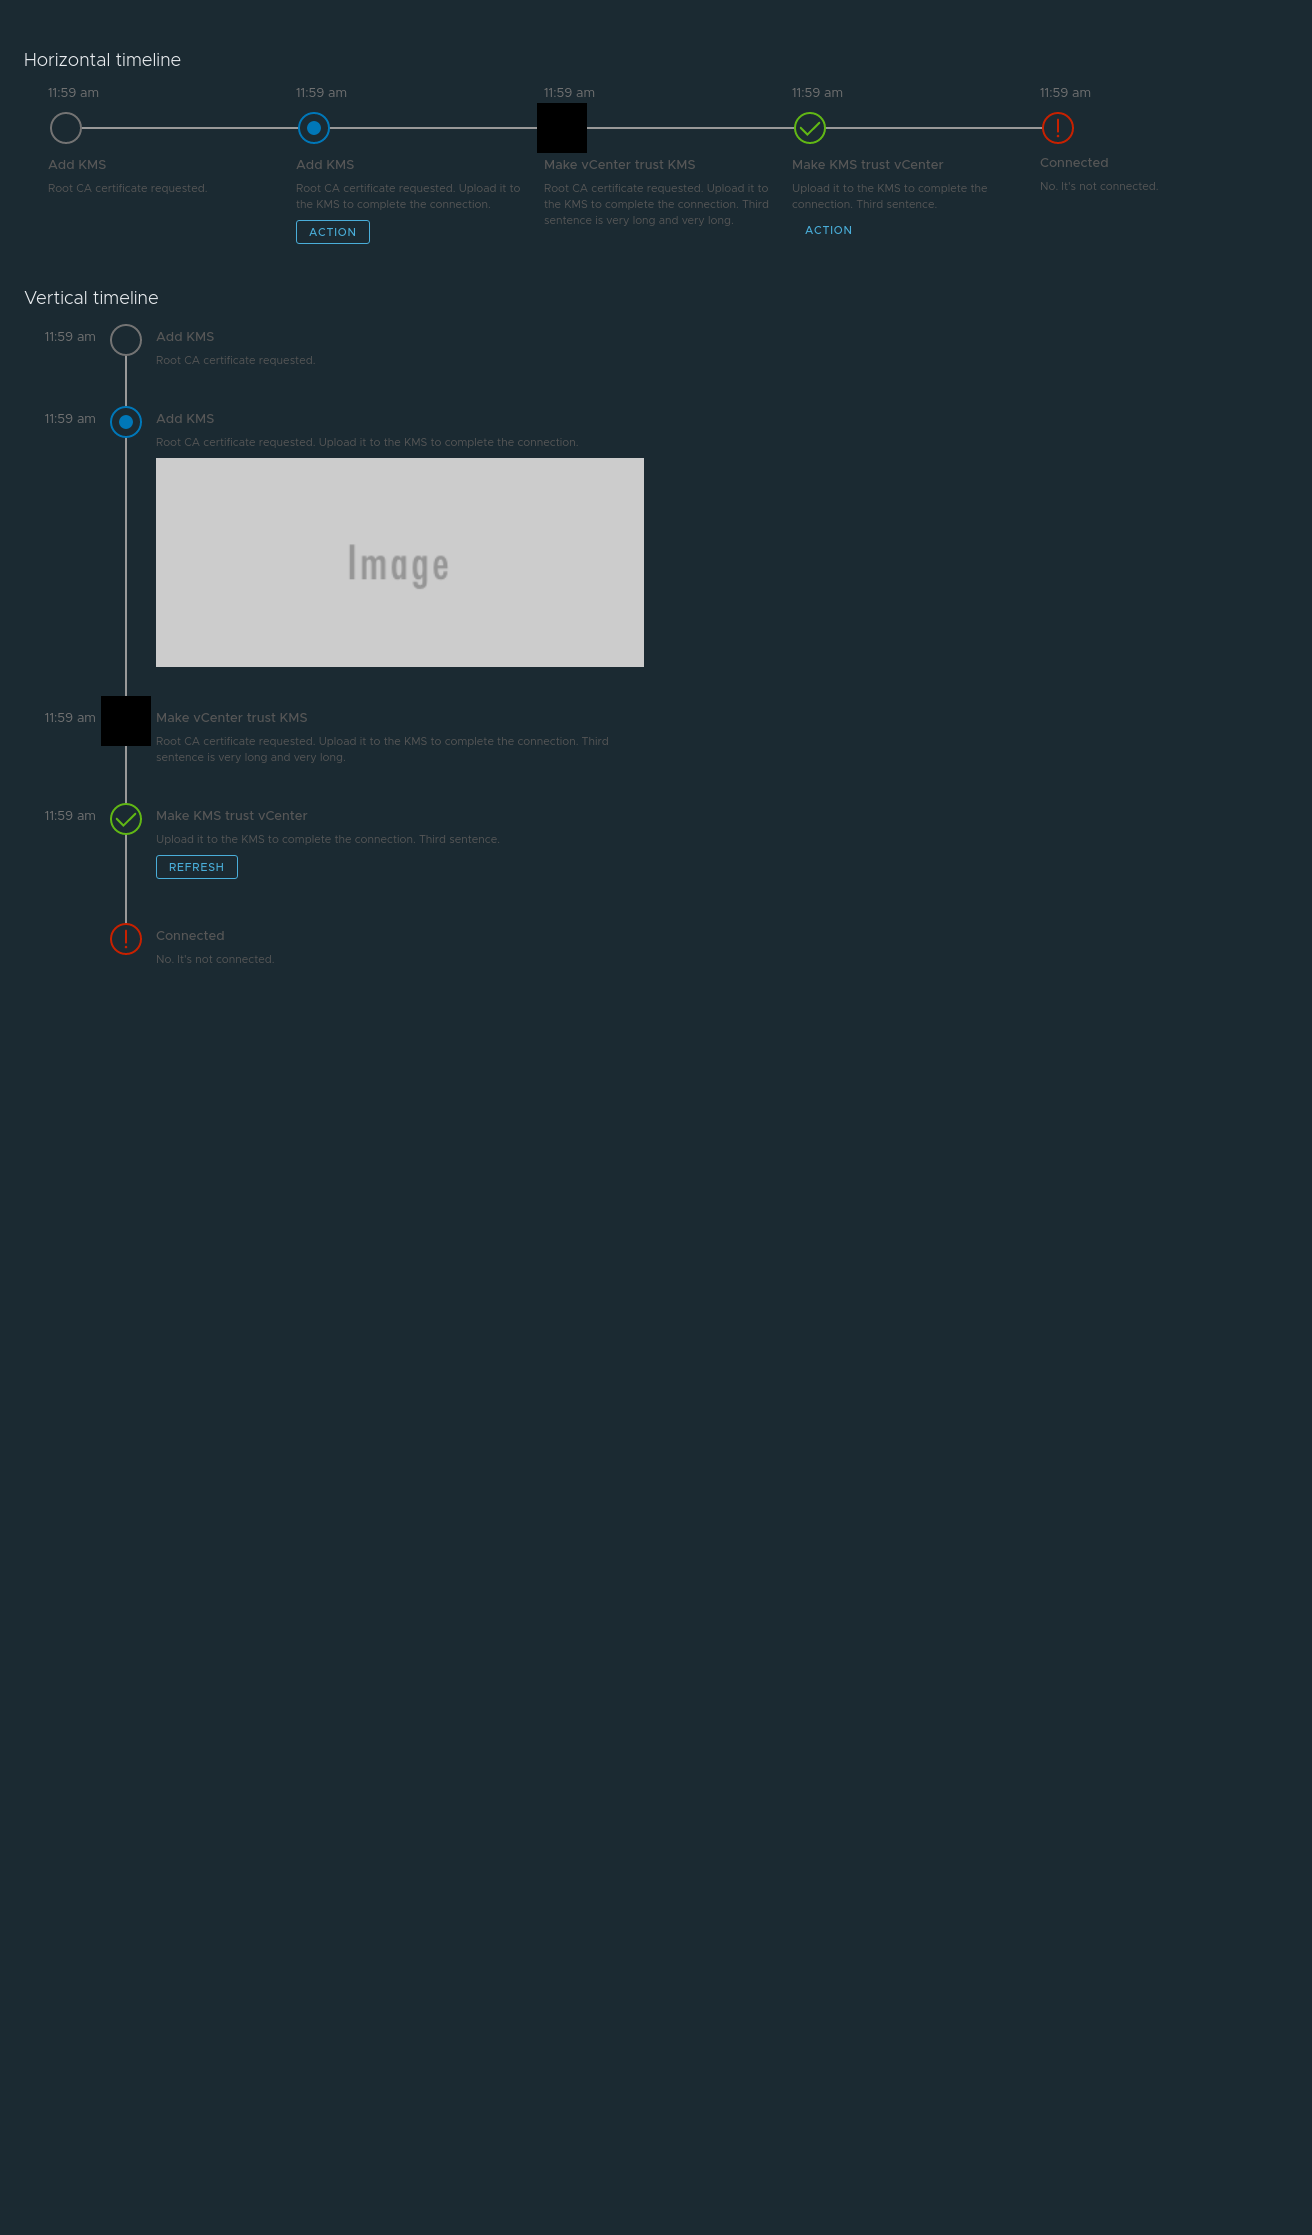
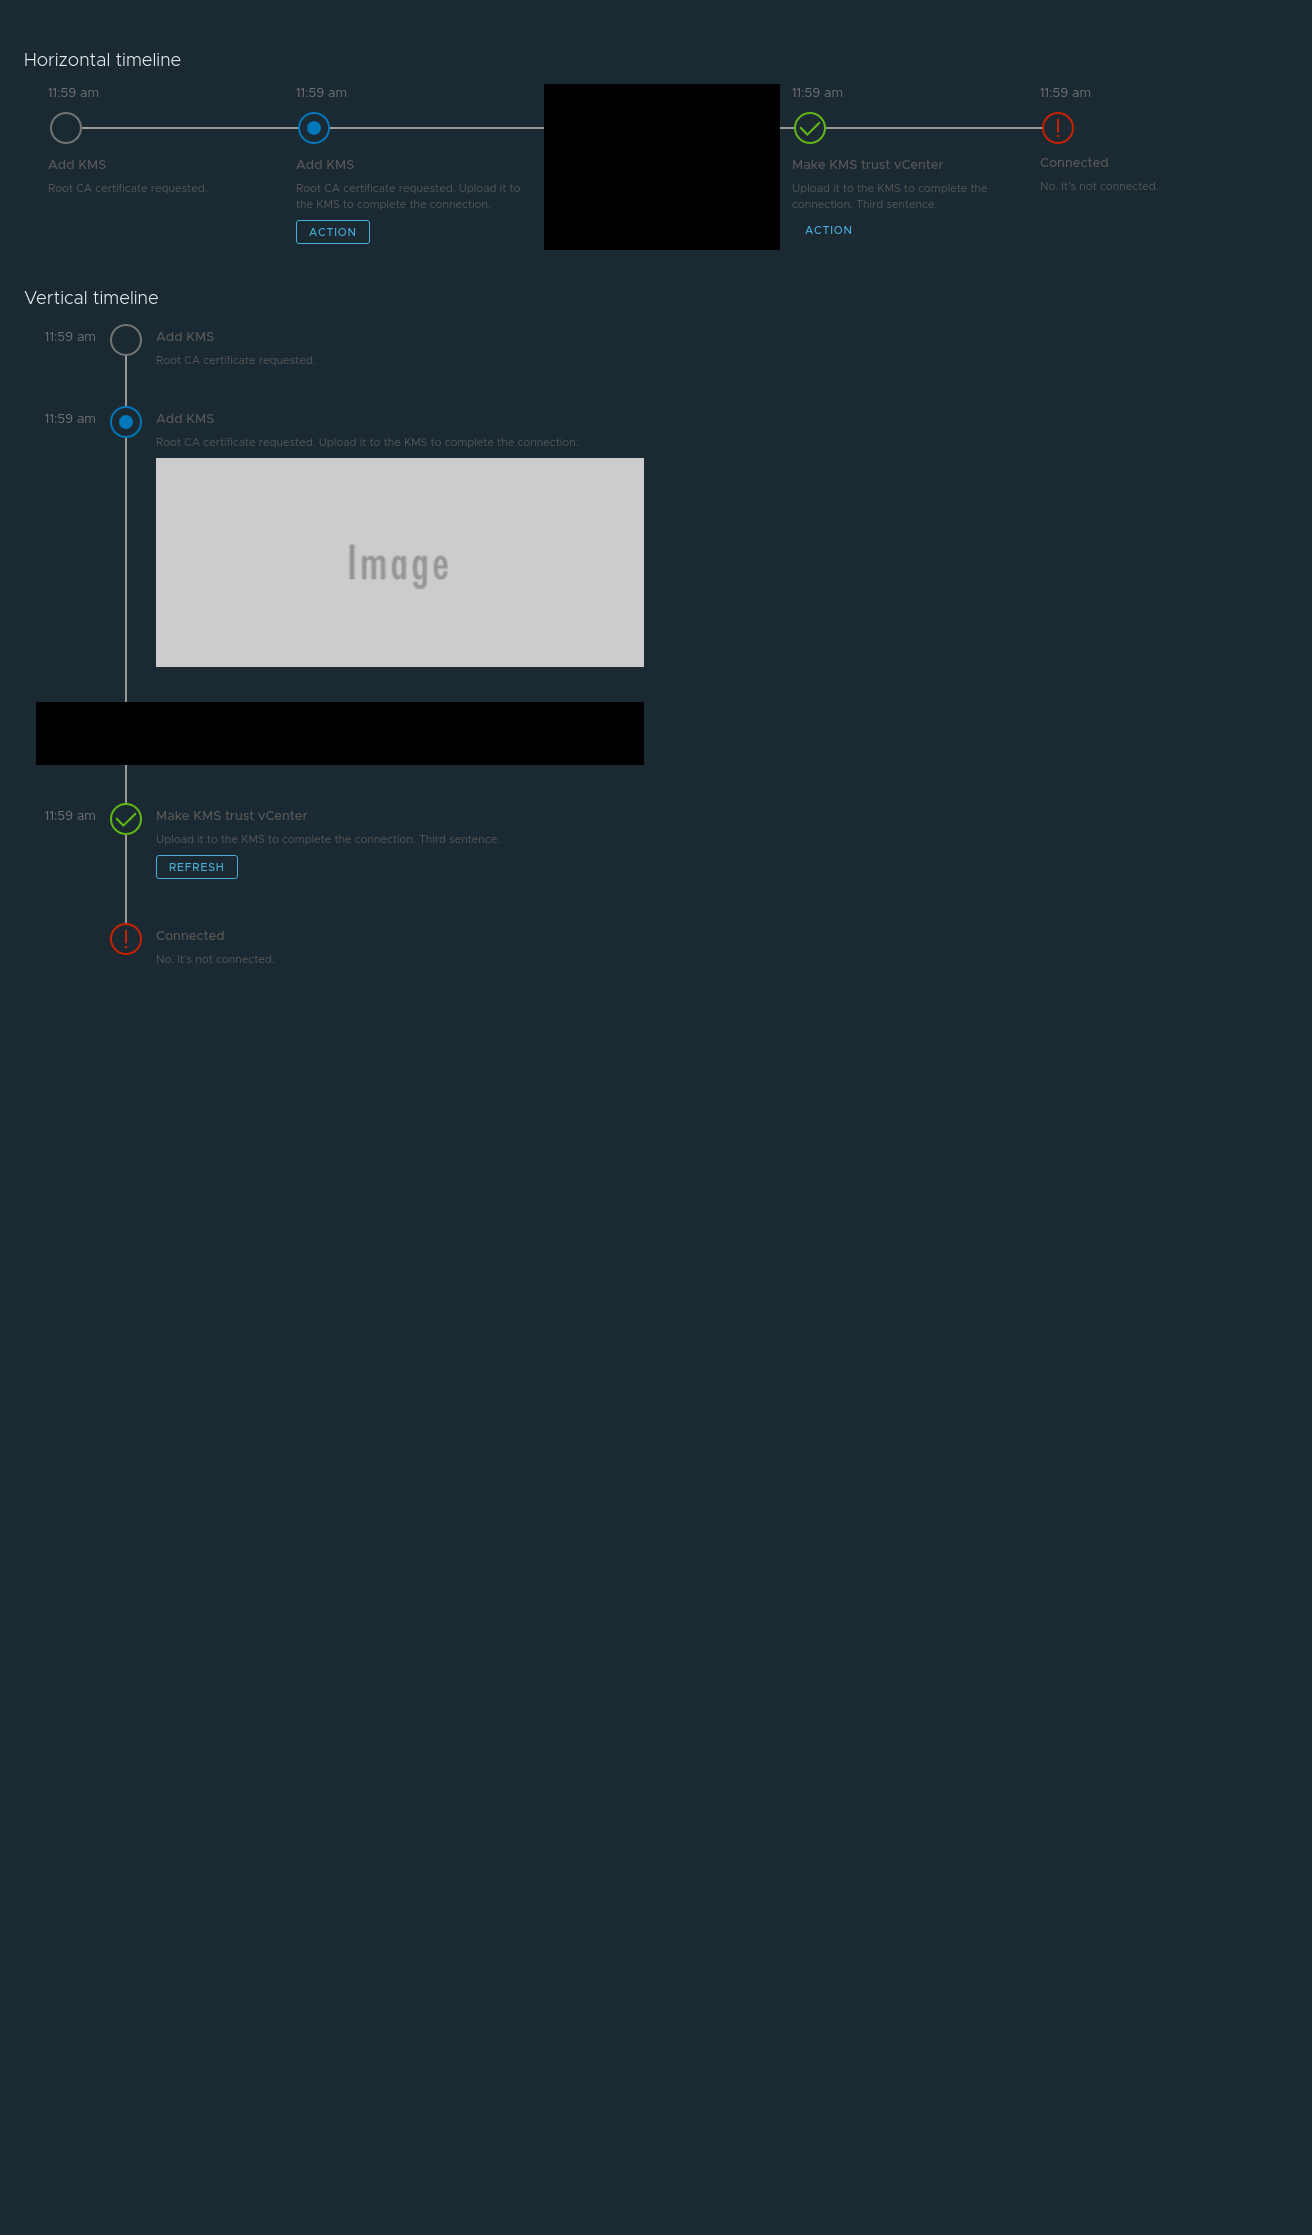
feat(timeline): updating the timeline component to new sizing

Changed region(s): [[0.4062, 0.0309, 0.5938, 0.1235], [0.0, 0.3087, 0.5, 0.3396]]

diff --git a/src/dev/src/app/timeline/timeline.demo.html b/src/dev/src/app/timeline/timeline.demo.html
@@ -26,7 +26,7 @@
       </span>
     </div>
   </li>
-  <li class="clr-timeline-step">
+  <li class="clr-timeline-step gemini-ignore">
     <div class="clr-timeline-step-header">11:59 am</div>
     <clr-icon shape="spinner" aria-label="In progress"></clr-icon>
     <div class="clr-timeline-step-body">
@@ -80,7 +80,7 @@
       </span>
     </div>
   </li>
-  <li class="clr-timeline-step">
+  <li class="clr-timeline-step gemini-ignore">
     <span class="clr-timeline-step-header">11:59 am</span>
     <clr-icon shape="spinner" aria-label="In progress"></clr-icon>
     <div class="clr-timeline-step-body">

diff --git a/gemini/tests/set4/timeline.js b/gemini/tests/set4/timeline.js
@@ -15,6 +15,6 @@ gemini.suite('timeline', child => {
       actions.wait(WAIT_LOAD_TIME);
     })
     .setCaptureElements('.content-area')
-    .ignoreElements({ every: 'clr-icon[shape="spinner"]' })
+    .ignoreElements({ every: '.gemini-ignore' })
     .capture('default');
 });
